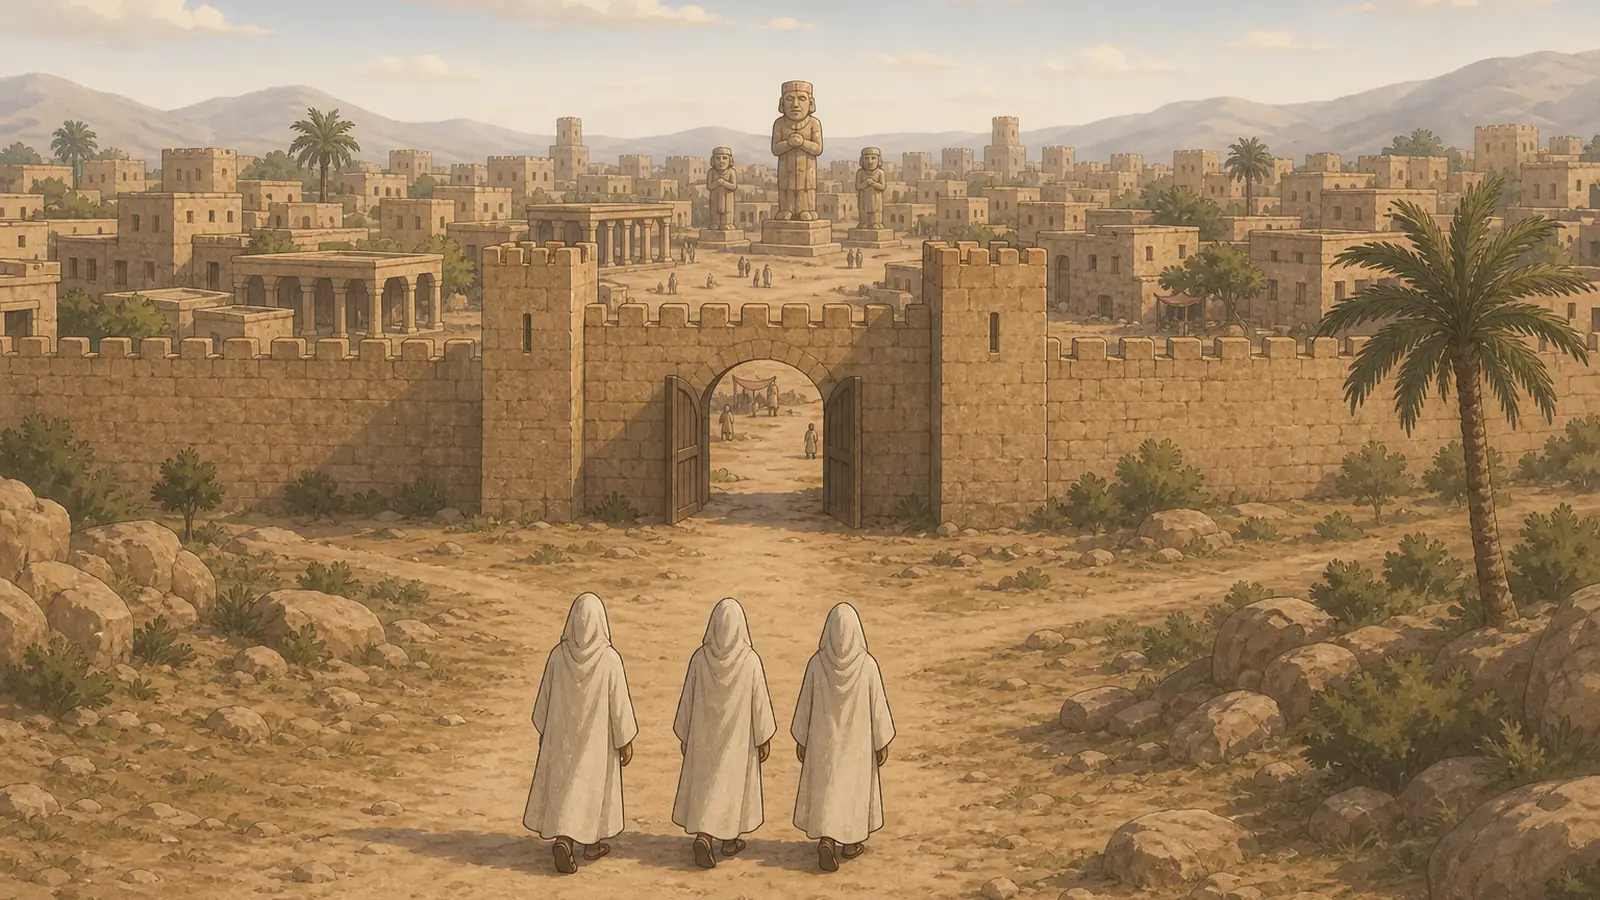
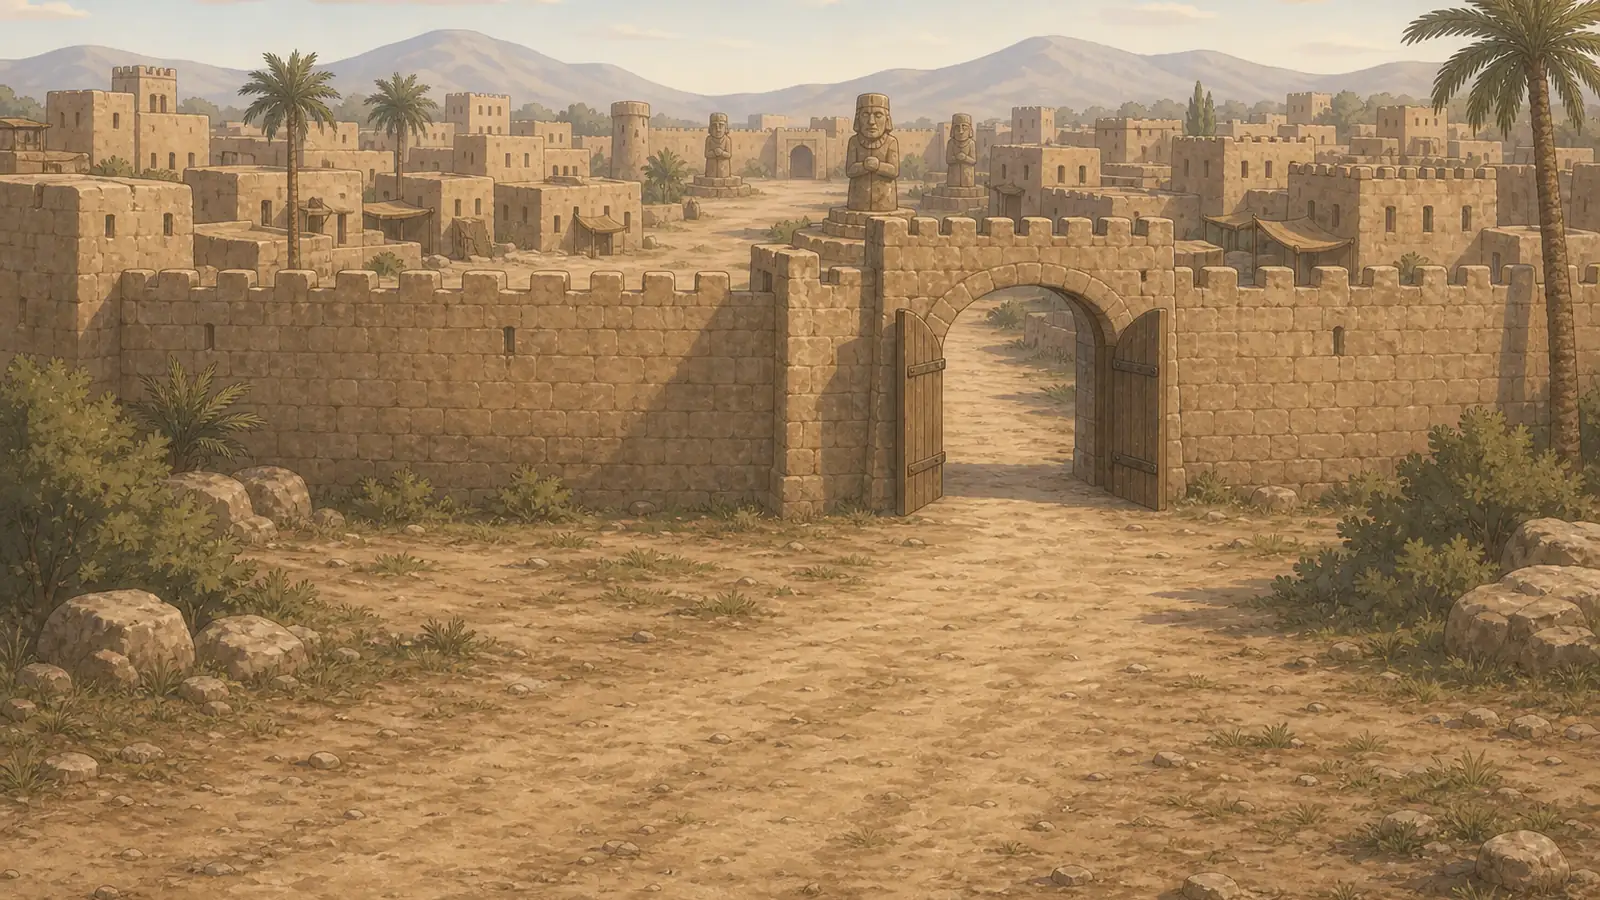
🚫 «الرجل الذي جاء يسعى» بلا رسلٍ في صورها
كان الرسلُ الثلاثة يظهرون من الخلف بأثوابٍ بيض في الصفحات الأولى، وهذا رسمٌ لهم وإن لم تُرَ وجوهُهم. فأُعيدت الثلاثُ بلا رسل: بابُ المدينة والطريقُ إليه خالٍ، والقومُ يسخرون ويتوعّدون ناظرين إلى خارج الإطار. ورُفع rev. و«كيف أضيف قصّة» فيه القاعدة: الأنبياءُ والرسلُ لا يُرسمون بأيّ صورة، ولا من الخلف ولا من بعيد.

diff --git a/stories/كيف-أضيف-قصة.md b/stories/كيف-أضيف-قصة.md
@@ -39,6 +39,10 @@
   ونماذجُ الصور تُظهر مقدّمةَ الشعر من تلقاء نفسها، فاكتبْها صريحةً في وصف
   كلّ صورة، وافحصْ الصورةَ مكبَّرةً قبل رفعها.
 
+- **الأنبياءُ والرسلُ لا يُرسمون بأيّ صورة**: لا وجهاً، ولا من الخلف، ولا
+  بثوبٍ يستر الوجه، ولا ظلّاً، ولا صغاراً من بعيد — يغيبون عن الصورة تماماً،
+  ويُرسم قومُهم ومكانُهم. فإن خاطبهم القومُ نظروا وأشاروا إلى خارج الإطار.
+
 ### الغلاف
 
 غلافان لكلّ قصّة:
